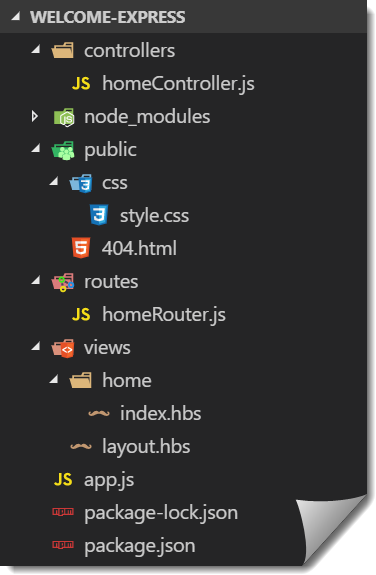
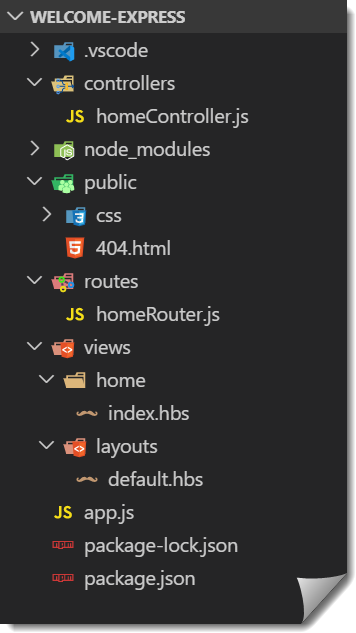
Updating before fall 2019

diff --git a/lectures/02/index.html b/lectures/02/index.html
@@ -401,11 +401,58 @@ const server = http.createServer((req, res) => {
           </div>
         </section>
 
-        <section data-markdown>
+        <section>
+          <h3>The view</h3>
+          <div class="twocolumn">
+            <div style="min-height: 600px">
+              <div>
+                <img src="./images/index.hbs.png" style="max-width: 500px;" /></div>
+                <div><img src="./images/index.hbs.html.png" style="max-width: 500px;" /></div>
+            </div>
+            <div style="font-size: 80%">
+              <ul>
+                <li>A template engine enables you to transform a template to HTML sent to the client.</li>
+                <li>Express supports several template engines, such as Pug, Mustache, and EJS.</li>
+                <li>We will take a closer look at Express handlebars template engine (express-hbs) with 
+                    multiple layouts, blocks and partials.
+                    <ul>
+                      <li>Find out more about handlebars expressions at <a href="https://handlebarsjs.com/">https://handlebarsjs.com/</a>.</li>
+                    </ul>
+                </li>
+              </ul>
+            </div>
+          </div>
+        </section>
+
+        <section>
+            <h3>Installation and configuration</h3>
+            <div class="twocolumn">
+              <div style="min-height: 600px">
+                  <img src="./images/final-directory-structure-views.png" style="max-width: 500px;" />
+              </div>
+              <div style="font-size: 80%">
+                <ul>
+                  <li>Install express.hbs.
+                    <ul>
+                      <li><code>npm install express-hbs</code></li>
+                    </ul>
+                  </li>
+                  <li>Configure the template engine to use '.hbs' for extensions and find layouts in  'views/layouts'.
+                      Setting views directory for views and view engine as handlebars.
+                    <div>
+                    <img src="./images/express-hbs-configuration.png" style="max-width: 1000px;" />
+                  </div>
+                  </li>
+                </ul>
+              </div>
+            </div>
+          </section>
+  
+          <section data-markdown>
           <script type="text/template">
             ### The template engine
   
-            <img src="./images/template-engine.png" />
+            <img src="./images/template-engine2.png" />
           </script>
         </section>
 

diff --git a/examination/exam-assignment-3/README.md b/examination/exam-assignment-3/README.md
@@ -10,7 +10,7 @@ The assignment aims to give the student practical and theoretical experience abo
 
 ## Requirements of the application
 
-<img src="https://github.com/1dv023/syllabus/raw/master/examination/exam-assignment-3/application_flow.png" width="80%" />
+[](<img src="https://github.com/1dv023/syllabus/raw/master/examination/exam-assignment-3/application_flow.png" width="80%" />)
 
 The image above tries to explain the application flow in this assignment.
 
